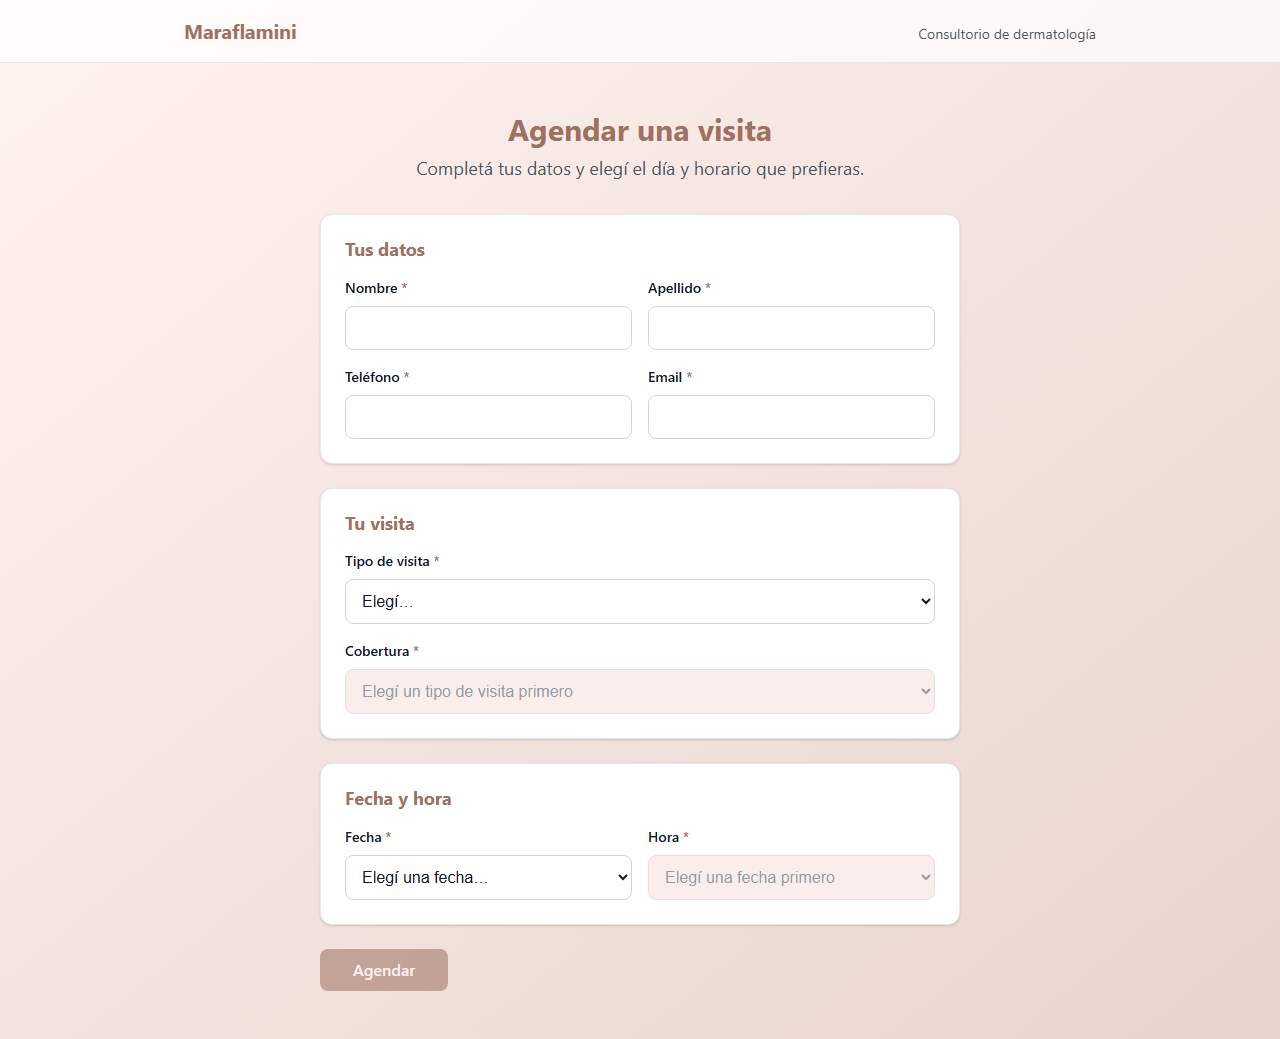
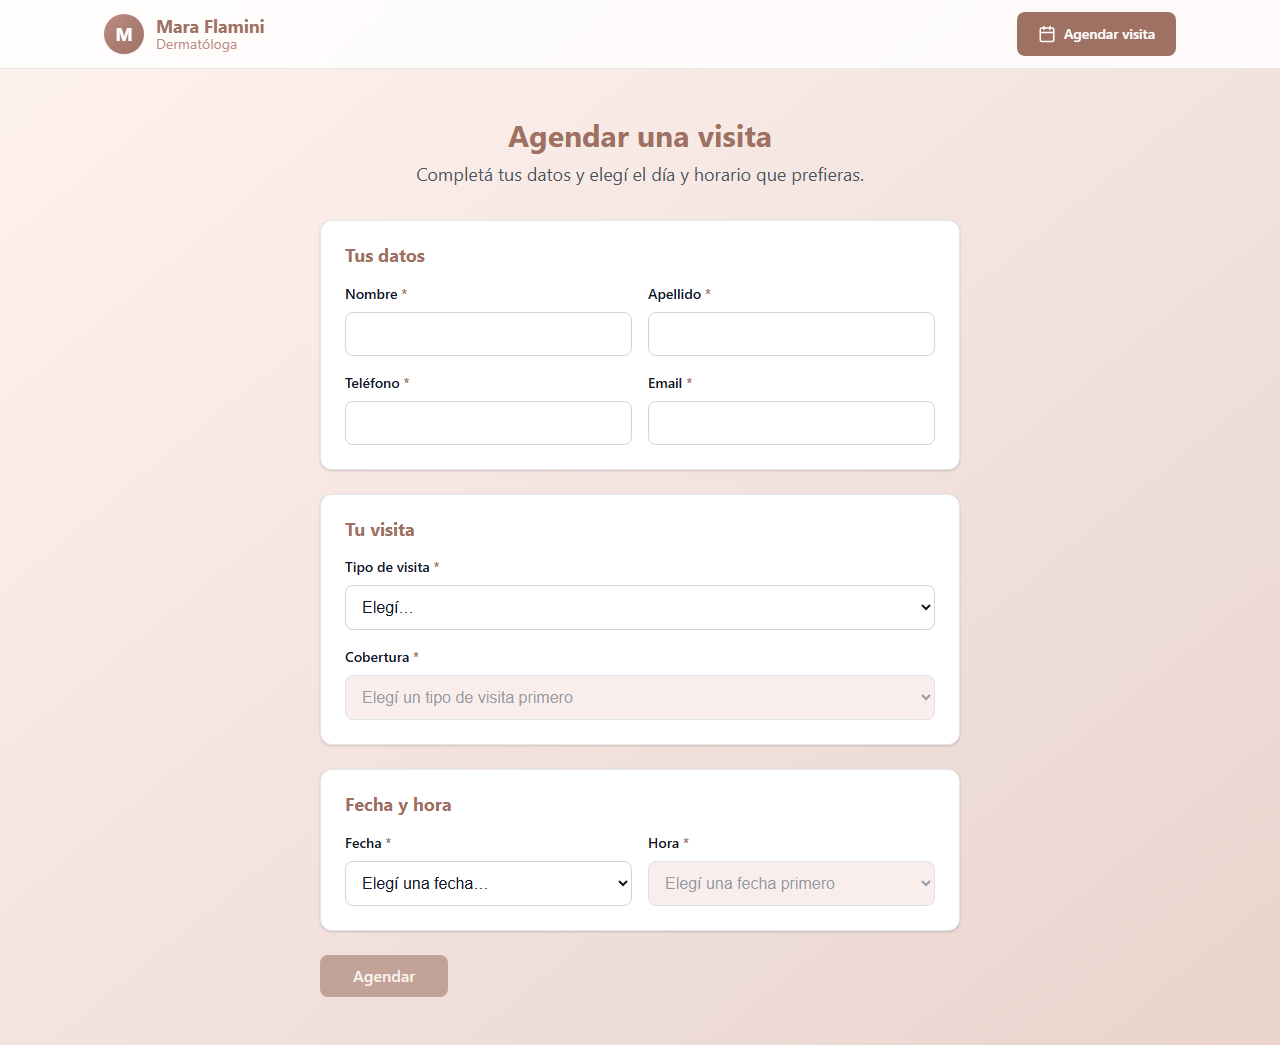
home: refresh Playwright visual baselines
Point the home assertion at the new "Tu Piel, Nuestra Especialidad" headline
and regenerate the home baseline. The shared-header upgrade also legitimately
changes the booking baselines, so booking-initial and booking-deposit are
regenerated too; sign-in (admin layout) is unchanged.

Sub-issue #14 of PRD #9

diff --git a/e2e/public.spec.ts b/e2e/public.spec.ts
@@ -13,7 +13,9 @@ async function shot(page: Page, name: string) {
 
 test("home page", async ({ page }) => {
   await page.goto("/");
-  await expect(page.getByRole("heading", { name: "Maraflamini" })).toBeVisible();
+  await expect(
+    page.getByRole("heading", { name: /Tu Piel, Nuestra Especialidad/ }),
+  ).toBeVisible();
   await shot(page, "home.png");
 });
 